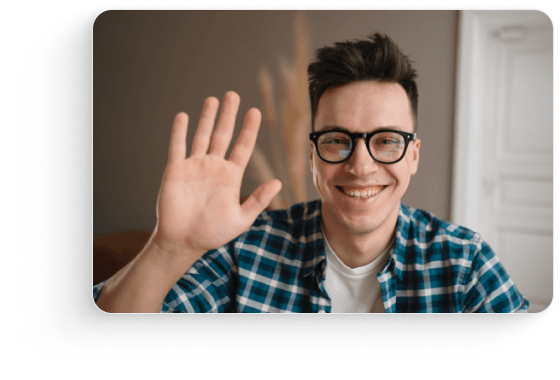
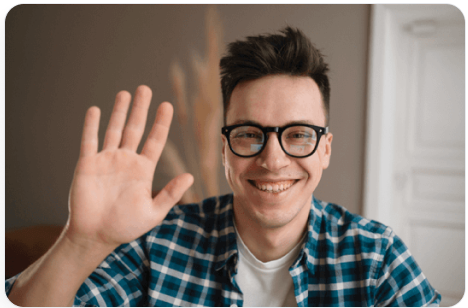
save

diff --git a/components/Sections/Features/Todo.tsx b/components/Sections/Features/Todo.tsx
@@ -11,7 +11,10 @@ export default function Todo({ id, label }: TodoProps) {
   const [check, setCheck] = useState(false);
 
   return (
-    <div className="flex cursor-pointer select-none items-center gap-3 lg:gap-5">
+    <label
+      htmlFor={id}
+      className="flex cursor-pointer select-none items-center gap-3 lg:gap-5"
+    >
       <input
         id={id}
         type="checkbox"
@@ -20,12 +23,11 @@ export default function Todo({ id, label }: TodoProps) {
         onChange={() => setCheck((prev) => !prev)}
       />
 
-      <label
-        htmlFor={id}
-        className={`border-second-border block flex-grow cursor-pointer rounded-[10px] border p-3 ${check ? "text-border line-through" : "text-title"}`}
+      <h5
+        className={`flex-grow cursor-pointer rounded-[10px] border border-second-border p-3 ${check ? "text-border line-through" : "text-title"}`}
       >
         {label}
-      </label>
-    </div>
+      </h5>
+    </label>
   );
 }

diff --git a/components/Sections/Features/Card.tsx b/components/Sections/Features/Card.tsx
@@ -18,11 +18,11 @@ export default function Card({ img }: CardProps) {
       </div>
 
       <div className="w-full space-y-1.5">
-        <div className="h-5 w-[80%] rounded-[20px] bg-[#E6E8EC4D] shadow-sm" />
+        <div className="h-5 w-[80%] rounded-[20px] bg-[#E6E8EC4D]" />
 
-        <div className="h-[14px] w-1/2 rounded-[20px] bg-[#E6E8EC4D] shadow-sm" />
+        <div className="h-[14px] w-1/2 rounded-[20px] bg-[#E6E8EC4D]" />
 
-        <div className="h-[14px] w-1/2 rounded-[20px] bg-[#E6E8EC4D] shadow-sm" />
+        <div className="h-[14px] w-1/2 rounded-[20px] bg-[#E6E8EC4D]" />
       </div>
     </div>
   );

diff --git a/components/Sections/Features/index.tsx b/components/Sections/Features/index.tsx
@@ -115,12 +115,12 @@ export default function Features() {
             </div>
           </FeatureBox>
 
-          <FeatureBox start classes="lg:pt-7">
+          <FeatureBox start classes="lg:p-7">
             <Image
               src="/sections/features/ai-interview.png"
               height={305}
               width={400}
-              className="relative !w-[80%] object-cover"
+              className="relative !w-[85%] object-cover"
               alt="ai-interview"
               draggable={false}
             />
